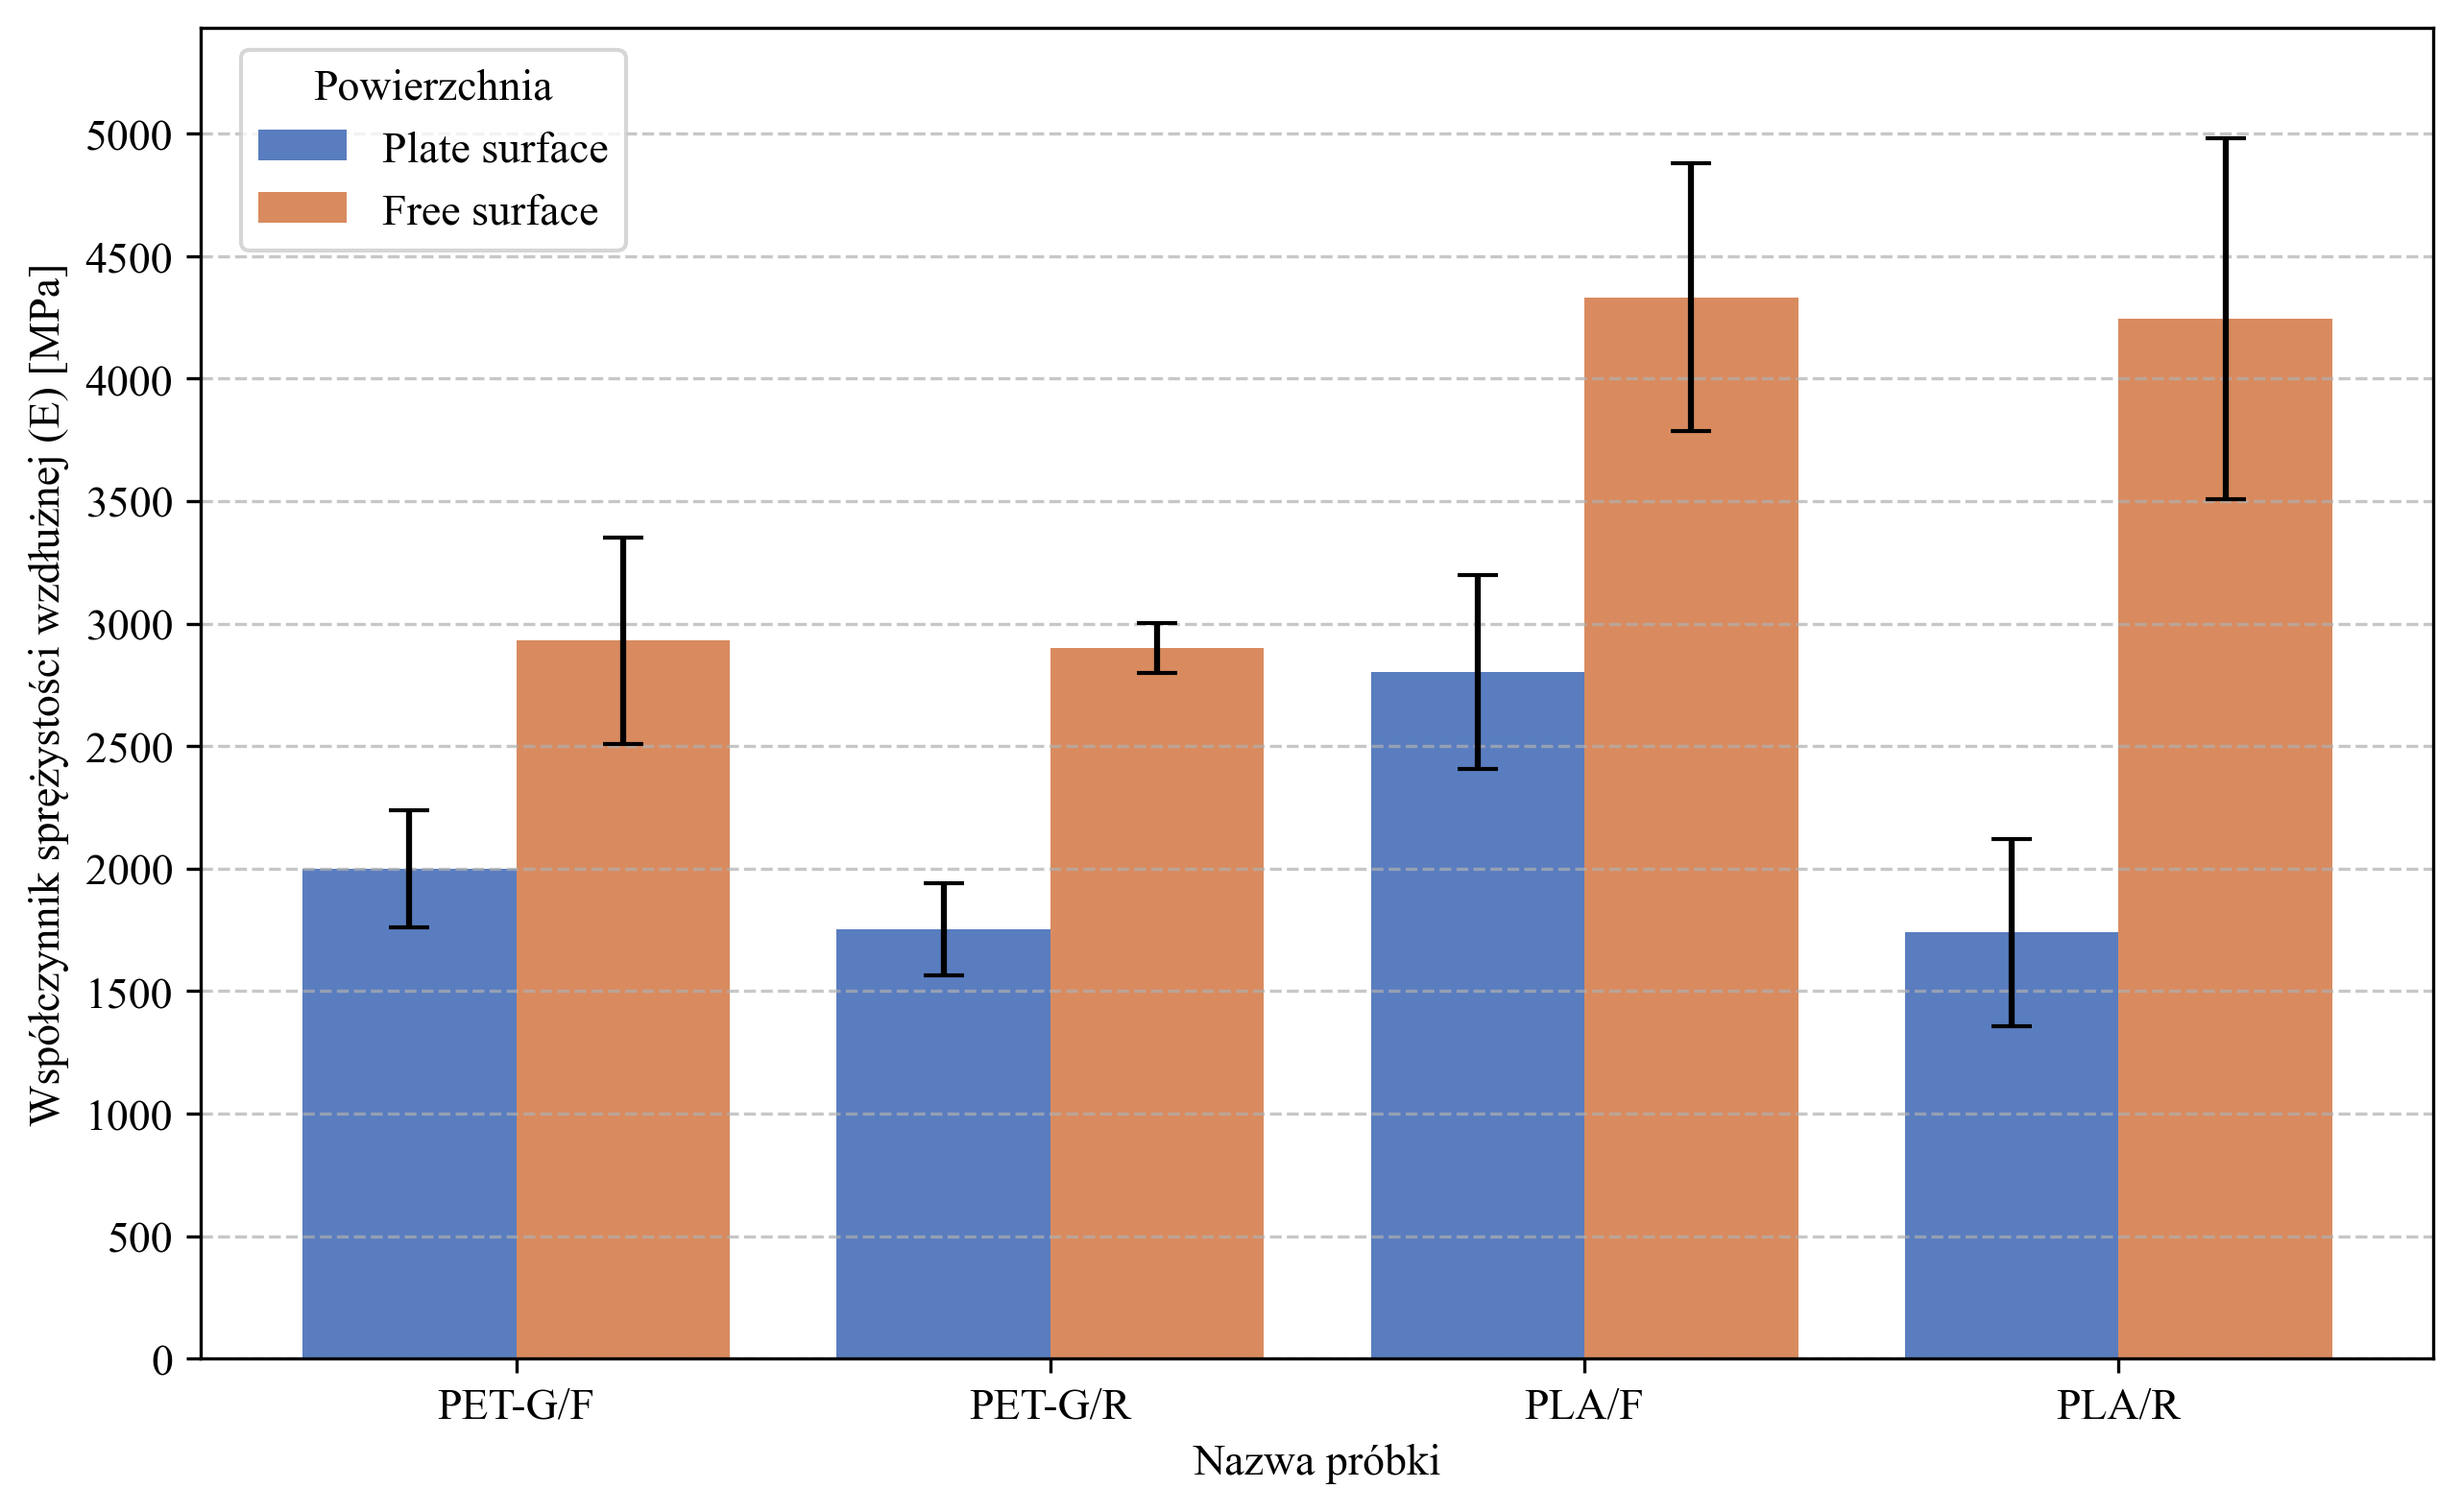
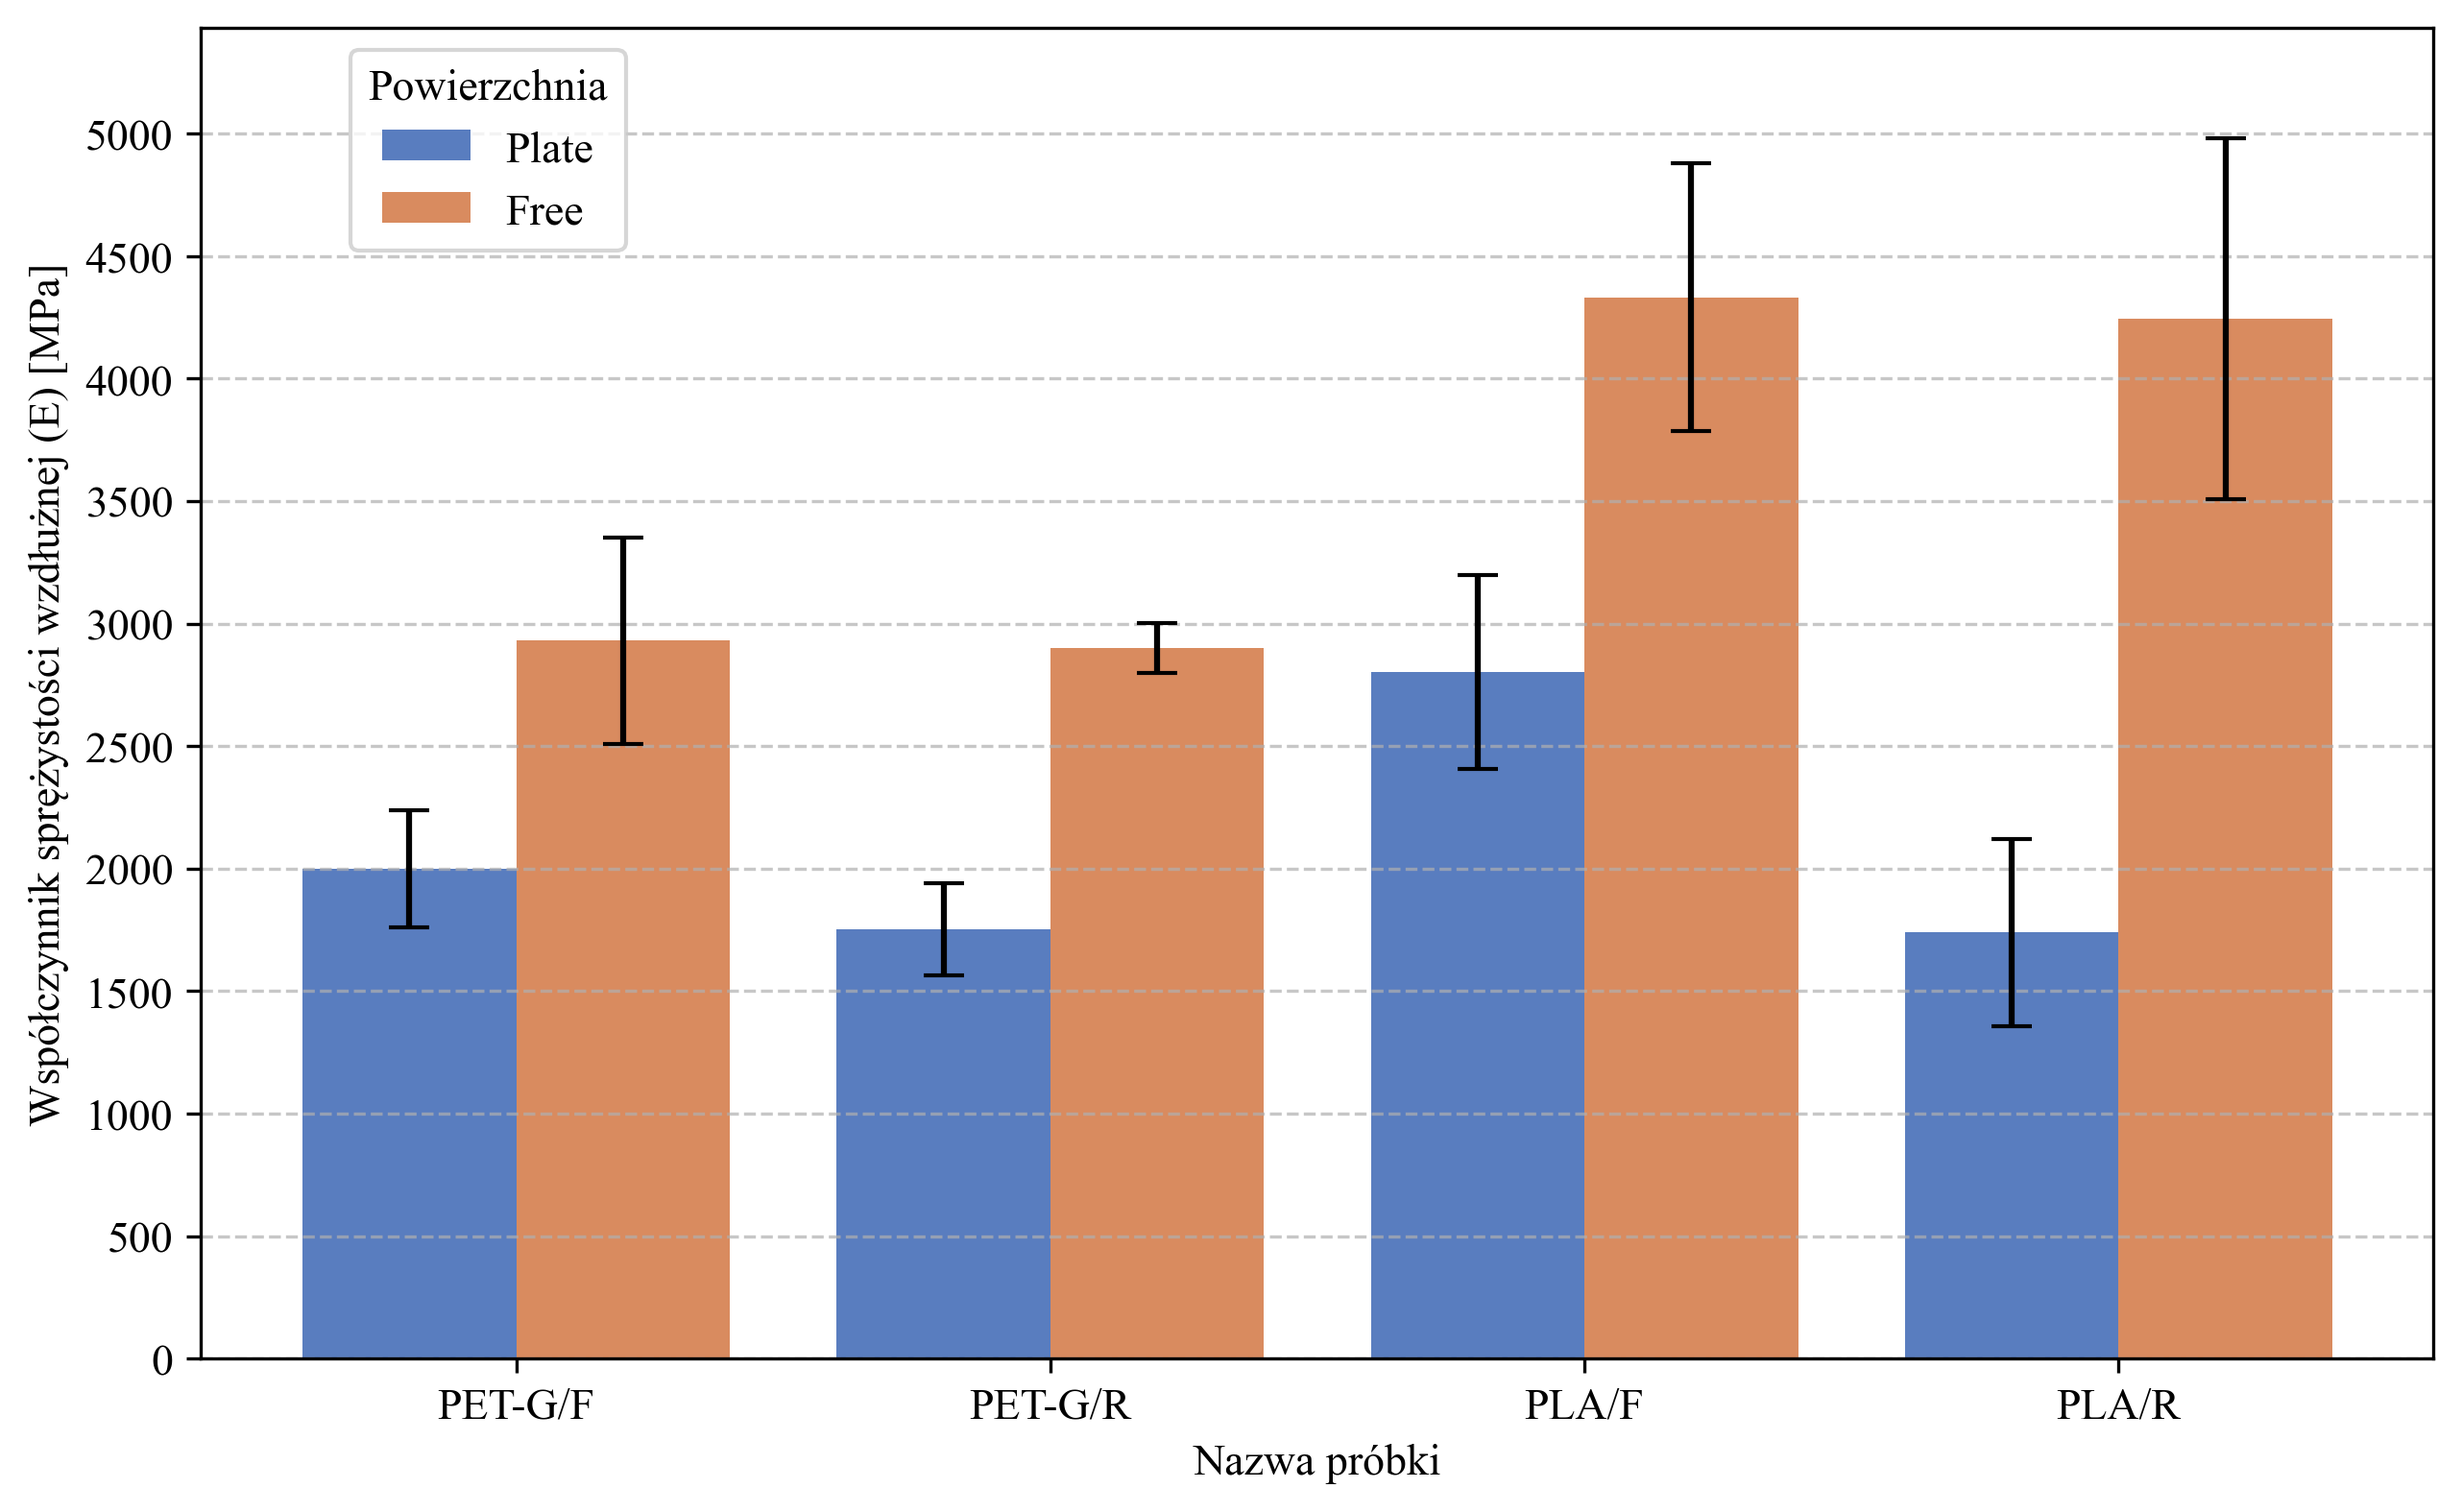
Quick fix.

Changed region(s): [[0.0936, 0.0311, 0.2496, 0.1556]]

diff --git a/src/hardness_ball_plot.py b/src/hardness_ball_plot.py
@@ -43,7 +43,7 @@ def plot_hardness_ball_surfaces_chart(summary):
 
     # Ustawienia osi
     plt.xlabel("Nazwa próbki")
-    plt.ylabel("Twardość metodą wciskania kulki (H)")
+    plt.ylabel("Twardość metodą wciskania kulki (HB) [N/mm$^2$]")
 
     # Zmiana pozycji legendy
     plt.legend(title="Powierzchnia", loc="upper right", bbox_to_anchor=(1, 1))
@@ -93,7 +93,7 @@ def plot_hardness_ball_plate_surface_chart(summary):
 
     # Ustawienia osi
     plt.xlabel("Nazwa próbki")
-    plt.ylabel("Twardość metodą wciskania kulki (H)")
+    plt.ylabel(r"Twardość metodą wciskania kulki (HB) [N/mm$^2$]")
 
     # Linie siatki
     ax.grid(True, which="both", axis="y", linestyle="--", linewidth=0.5, alpha=0.5)

diff --git a/src/contact_angle_plot.py b/src/contact_angle_plot.py
@@ -8,7 +8,7 @@ def plot_contact_angle_chart(summary):
 
     # Zamiana nazw w legendzie
     summary["Legenda"] = summary["Plate/Print"].replace(
-        {"Plate": "Plate surface", "Print": "Free surface"}
+        {"Plate": "Plate", "Print": "Free"}
     )
 
     # Wykres słupkowy

diff --git a/src/elasticity_plot.py b/src/elasticity_plot.py
@@ -8,7 +8,7 @@ def plot_elasticity_chart(summary):
 
     # Zamiana nazw w legendzie
     summary["Legenda"] = summary["Plate/Print"].replace(
-        {"Plate": "Plate surface", "Print": "Free surface"}
+        {"Plate": "Plate", "Print": "Free"}
     )
 
     # Wykres słupkowy
